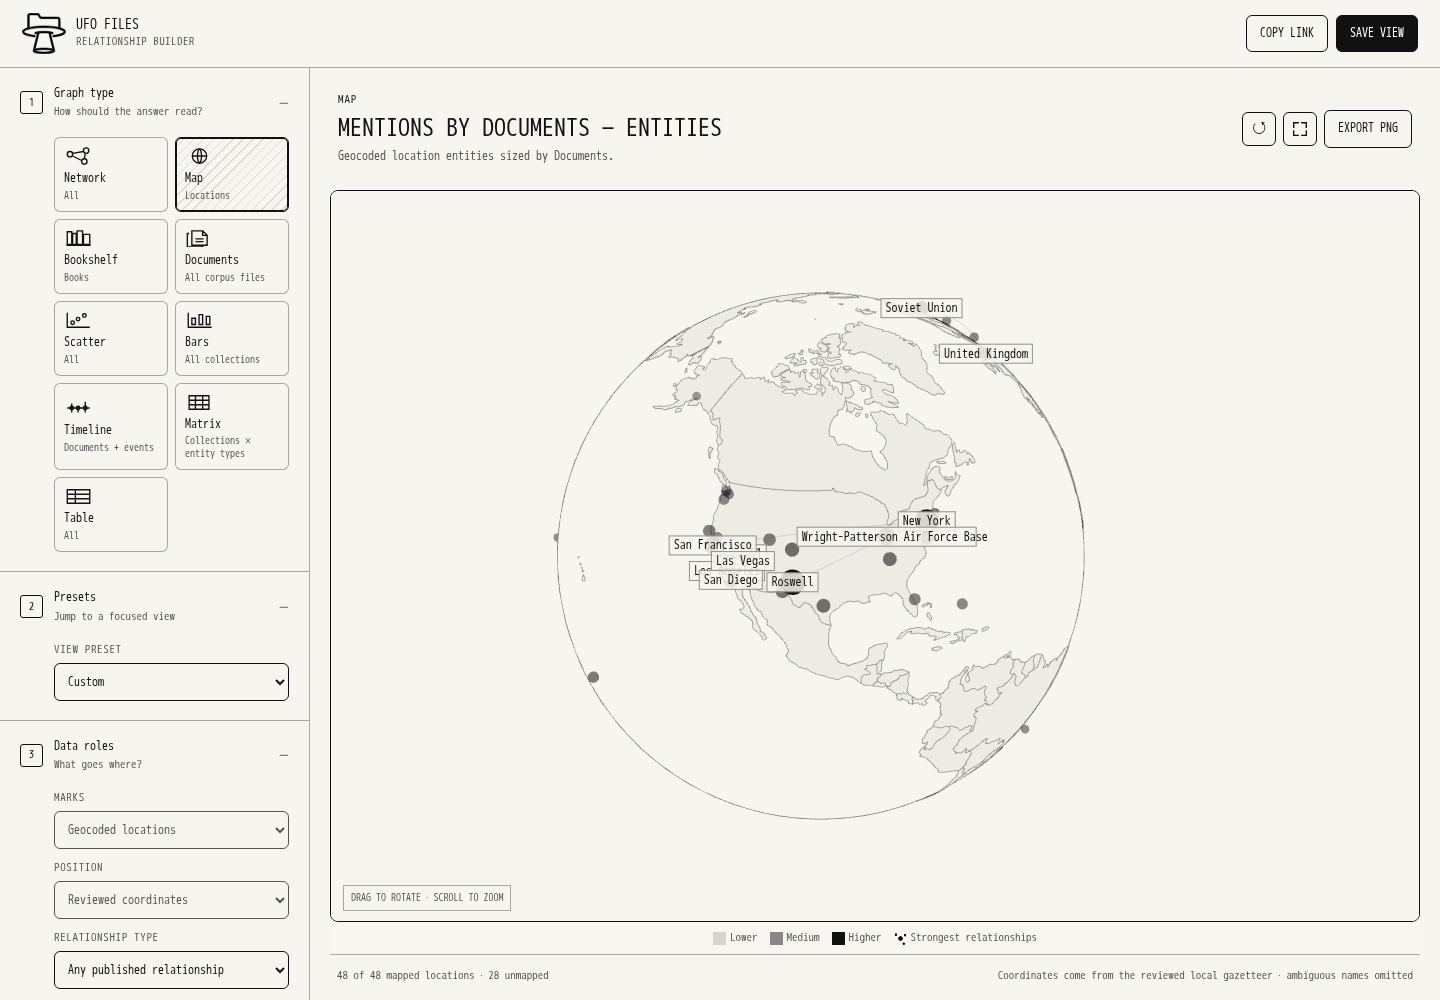
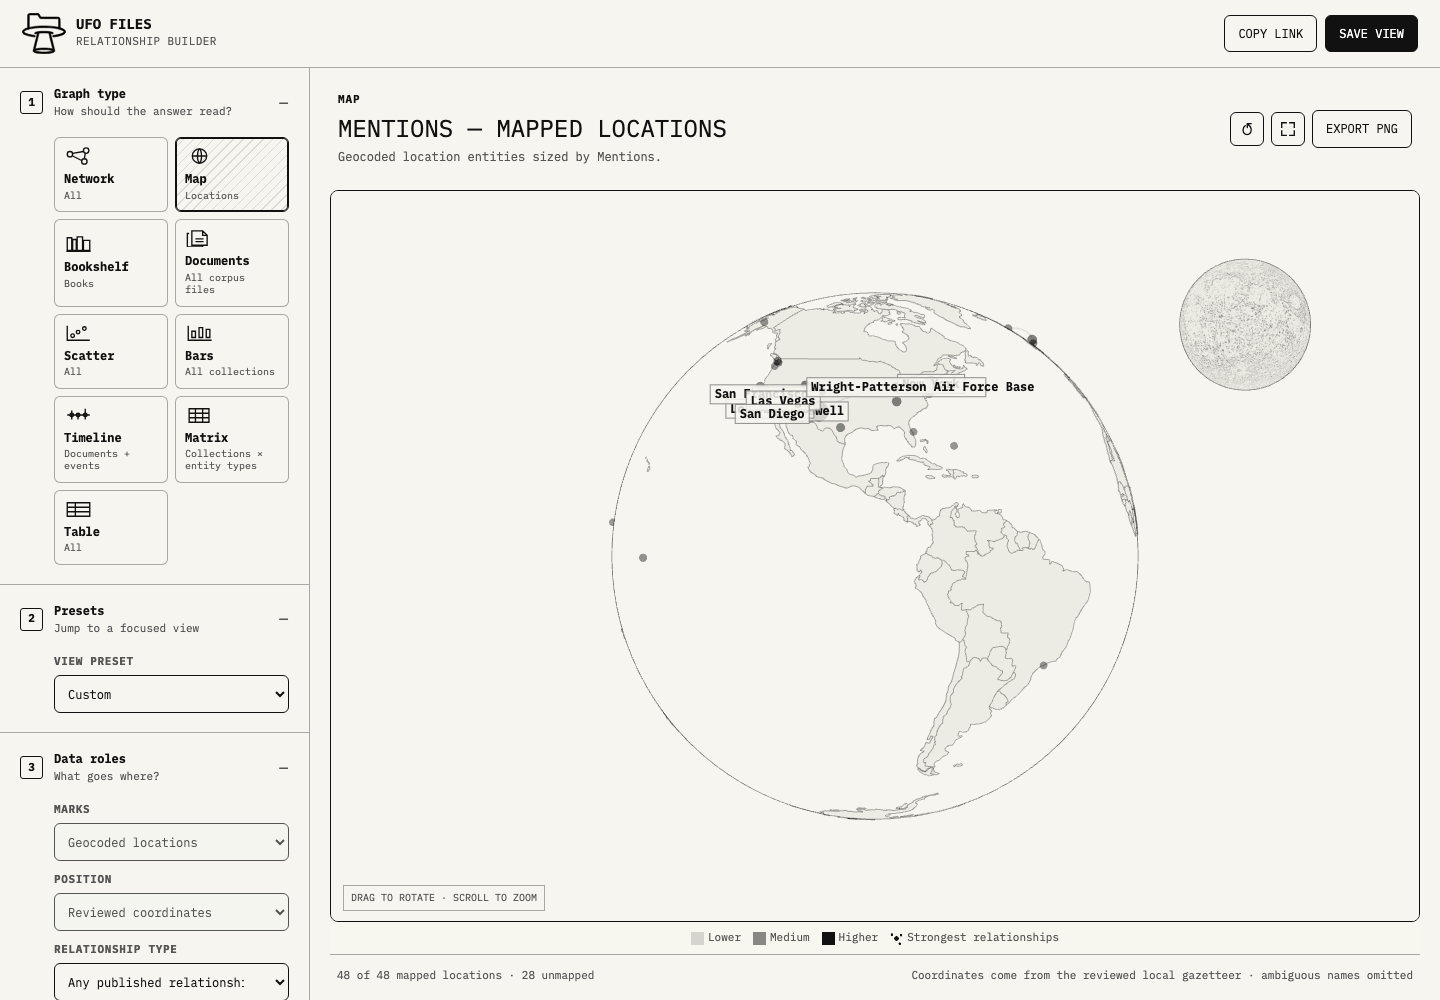
Use an outside telephoto Moon orbit view

diff --git a/map-globe.js b/map-globe.js
@@ -7,7 +7,7 @@ const labelLayer = document.querySelector("#globeLabels");
 const status = document.querySelector("#mapStatus");
 const DEFAULT_GLOBE_COVERAGE = .72;
 const DEFAULT_CAMERA_TARGET_X = 0;
-const DEFAULT_GLOBE_ROTATION = { x: .66, y: .11 };
+const DEFAULT_GLOBE_ROTATION = { x: .01375, y: 0 };
 const AUTO_ROTATION_SPEED = .000025;
 const EARTH_EQUATORIAL_RADIUS_KM = 6371;
 const MOON_EQUATORIAL_RADIUS_KM = 1737.4;
@@ -17,14 +17,24 @@ const MOON_ORBIT_INCLINATION = 5.145;
 const MOON_RADIUS = MOON_EQUATORIAL_RADIUS_KM / EARTH_EQUATORIAL_RADIUS_KM;
 const MOON_ORBIT_RADIUS = MOON_MEAN_ORBIT_RADIUS_KM / EARTH_EQUATORIAL_RADIUS_KM;
 // Physical time is compressed so a complete orbit is observable in the interactive view.
-const MOON_DISPLAY_ORBIT_PERIOD_MS = 30_000;
+const MOON_DISPLAY_ORBIT_PERIOD_MS = 300_000;
 const MOON_ORBIT_SPEED = Math.PI * 2 / MOON_DISPLAY_ORBIT_PERIOD_MS;
-const MAX_CAMERA_DISTANCE = 180;
+const DEFAULT_MOON_ORBIT_ANGLE = 1.545;
+const DEFAULT_CAMERA_DISTANCE = 600;
+const MIN_CAMERA_DISTANCE = 70;
+const MAX_CAMERA_DISTANCE = 1_200;
 
 function cameraDistanceForCoverage(verticalFov, coverage) {
   const halfFov = THREE.MathUtils.degToRad(verticalFov / 2);
   return 1 / Math.sin(Math.atan(Math.tan(halfFov) * coverage));
 }
+
+function verticalFovForCoverageAtDistance(distance, coverage) {
+  const apparentHalfAngle = Math.asin(1 / distance);
+  return THREE.MathUtils.radToDeg(2 * Math.atan(Math.tan(apparentHalfAngle) / coverage));
+}
+
+const DEFAULT_CAMERA_FOV = verticalFovForCoverageAtDistance(DEFAULT_CAMERA_DISTANCE, DEFAULT_GLOBE_COVERAGE);
 
 class GlobeMap {
   constructor() {
@@ -32,7 +42,7 @@ class GlobeMap {
     this.renderer.setPixelRatio(Math.min(2, window.devicePixelRatio || 1));
     this.renderer.outputColorSpace = THREE.SRGBColorSpace;
     this.scene = new THREE.Scene();
-    this.camera = new THREE.PerspectiveCamera(38, 1, .1, 500);
+    this.camera = new THREE.PerspectiveCamera(DEFAULT_CAMERA_FOV, 1, 10, 1_500);
     this.camera.position.set(DEFAULT_CAMERA_TARGET_X, 0, cameraDistanceForCoverage(this.camera.fov, DEFAULT_GLOBE_COVERAGE));
     this.camera.lookAt(DEFAULT_CAMERA_TARGET_X, 0, 0);
     this.earthMoonSystem = new THREE.Group();
@@ -63,6 +73,7 @@ class GlobeMap {
     orbitPlane.rotation.z = THREE.MathUtils.degToRad(MOON_ORBIT_INCLINATION);
     this.earthMoonSystem.add(orbitPlane);
     this.moonOrbit = new THREE.Group();
+    this.moonOrbit.rotation.y = DEFAULT_MOON_ORBIT_ANGLE;
     orbitPlane.add(this.moonOrbit);
 
     this.moonMaterial = new THREE.MeshBasicMaterial({ color: 0xd0cec7 });
@@ -214,7 +225,7 @@ class GlobeMap {
     canvas.addEventListener("wheel", event => {
       event.preventDefault();
       const zoomFactor = Math.exp(event.deltaY * .0015);
-      this.camera.position.z = THREE.MathUtils.clamp(this.camera.position.z * zoomFactor, 1.75, MAX_CAMERA_DISTANCE);
+      this.camera.position.z = THREE.MathUtils.clamp(this.camera.position.z * zoomFactor, MIN_CAMERA_DISTANCE, MAX_CAMERA_DISTANCE);
       this.draw();
     }, { passive: false });
     canvas.addEventListener("dblclick", () => this.reset());
@@ -224,7 +235,7 @@ class GlobeMap {
       else if (event.key === "ArrowRight") this.earthMoonSystem.rotation.y += step;
       else if (event.key === "ArrowUp") this.earthMoonSystem.rotation.x = Math.max(-1.15, this.earthMoonSystem.rotation.x - step);
       else if (event.key === "ArrowDown") this.earthMoonSystem.rotation.x = Math.min(1.15, this.earthMoonSystem.rotation.x + step);
-      else if (["+", "="].includes(event.key)) this.camera.position.z = Math.max(1.75, this.camera.position.z - .2);
+      else if (["+", "="].includes(event.key)) this.camera.position.z = Math.max(MIN_CAMERA_DISTANCE, this.camera.position.z / 1.35);
       else if (event.key === "-") this.camera.position.z = Math.min(MAX_CAMERA_DISTANCE, this.camera.position.z * 1.35);
       else return;
       event.preventDefault();
@@ -388,7 +399,7 @@ class GlobeMap {
   reset() {
     this.earthMoonSystem.rotation.set(DEFAULT_GLOBE_ROTATION.x, DEFAULT_GLOBE_ROTATION.y, 0);
     this.globe.rotation.set(0, 0, 0);
-    this.moonOrbit.rotation.set(0, 0, 0);
+    this.moonOrbit.rotation.set(0, DEFAULT_MOON_ORBIT_ANGLE, 0);
     this.camera.position.set(DEFAULT_CAMERA_TARGET_X, 0, cameraDistanceForCoverage(this.camera.fov, DEFAULT_GLOBE_COVERAGE));
     this.camera.lookAt(DEFAULT_CAMERA_TARGET_X, 0, 0);
     this.draw();

diff --git a/tests/test_app.js b/tests/test_app.js
@@ -445,15 +445,18 @@ test("Map is a first-class Three.js graph type with reviewed location data", () 
   assert.match(globe, /if \(!segments\.has\(edgeKey\)\)/);
   assert.match(globe, /DEFAULT_GLOBE_COVERAGE = \.72/);
   assert.match(globe, /DEFAULT_CAMERA_TARGET_X = 0/);
-  assert.match(globe, /DEFAULT_GLOBE_ROTATION = \{ x: \.66, y: \.11 \}/);
+  assert.match(globe, /DEFAULT_GLOBE_ROTATION = \{ x: \.01375, y: 0 \}/);
   assert.match(globe, /AUTO_ROTATION_SPEED = \.000025/);
   assert.match(globe, /MOON_EQUATORIAL_RADIUS_KM = 1737\.4/);
   assert.match(globe, /MOON_MEAN_ORBIT_RADIUS_KM = 384_400/);
   assert.match(globe, /MOON_RADIUS = MOON_EQUATORIAL_RADIUS_KM \/ EARTH_EQUATORIAL_RADIUS_KM/);
   assert.match(globe, /MOON_ORBIT_RADIUS = MOON_MEAN_ORBIT_RADIUS_KM \/ EARTH_EQUATORIAL_RADIUS_KM/);
   assert.match(globe, /MOON_ORBIT_DAYS = 27\.322/);
-  assert.match(globe, /MOON_DISPLAY_ORBIT_PERIOD_MS = 30_000/);
+  assert.match(globe, /MOON_DISPLAY_ORBIT_PERIOD_MS = 300_000/);
   assert.match(globe, /MOON_ORBIT_SPEED = Math\.PI \* 2 \/ MOON_DISPLAY_ORBIT_PERIOD_MS/);
+  assert.match(globe, /DEFAULT_MOON_ORBIT_ANGLE = 1\.545/);
+  assert.match(globe, /this\.moonOrbit\.rotation\.y = DEFAULT_MOON_ORBIT_ANGLE/);
+  assert.match(globe, /this\.moonOrbit\.rotation\.set\(0, DEFAULT_MOON_ORBIT_ANGLE, 0\)/);
   assert.match(globe, /moon-paper\.png/);
   assert.match(globe, /loadMoonTexture\(\) \{[\s\S]*new THREE\.TextureLoader\(\)\.load\([\s\S]*moon-paper\.png/);
   assert.match(globe, /setVisible\(visible\) \{[\s\S]*if \(visible\) \{[\s\S]*this\.loadMoonTexture\(\)/);
@@ -462,8 +465,11 @@ test("Map is a first-class Three.js graph type with reviewed location data", () 
   assert.match(globe, /moon\.rotation\.y = Math\.PI/);
   assert.match(globe, /this\.earthMoonSystem\.add\(orbitPlane\)/);
   assert.match(globe, /this\.earthMoonSystem\.rotation\.y \+= dx \* \.006/);
-  assert.match(globe, /MAX_CAMERA_DISTANCE = 180/);
-  assert.match(globe, /new THREE\.PerspectiveCamera\(38, 1, \.1, 500\)/);
+  assert.match(globe, /DEFAULT_CAMERA_DISTANCE = 600/);
+  assert.match(globe, /MIN_CAMERA_DISTANCE = 70/);
+  assert.match(globe, /MAX_CAMERA_DISTANCE = 1_200/);
+  assert.match(globe, /verticalFovForCoverageAtDistance/);
+  assert.match(globe, /new THREE\.PerspectiveCamera\(DEFAULT_CAMERA_FOV, 1, 10, 1_500\)/);
   assert.match(globe, /this\.camera\.position\.z \* zoomFactor/);
   assert.match(globe, /this\.moonOrbit\.rotation\.y \+= elapsed \* MOON_ORBIT_SPEED/);
   assert.match(html, /Drag or use arrow keys to rotate the Earth and Moon together/);

diff --git a/README.md b/README.md
@@ -80,7 +80,7 @@ Entities are a global data role: they can be network nodes, a Scatter axis, the 
 
 The Book type is an area-proportional abstract bookshelf. Each block is a title explicitly identified in transcript text, with area and shade controlled by the selected prominence metric. Titles are extracted only from book, novel, or memoir cues; each mark opens its source evidence in the inspector.
 
-The Map type renders a rotatable Three.js globe with SVG country boundaries and location-entity nodes. A Moon sized proportionally to Earth follows a time-compressed orbit at its mean physical distance while keeping its near side tidally locked toward Earth. Its flat paper-and-ink treatment matches the map, and dragging rotates the complete Earth–Moon system. The default camera keeps Earth at map scale, so the distant Moon is normally off-canvas until the view is zoomed out. Node position comes only from the reviewed `data/location_coordinates.json` gazetteer; ambiguous and unmapped names are reported but never guessed onto the globe. Map nodes retain the same collection, confidence, prominence-inflation, size, label, and evidence-inspection controls as other entity views.
+The Map type renders a rotatable Three.js globe with SVG country boundaries and location-entity nodes. A Moon sized proportionally to Earth follows a five-minute display orbit at its mean physical distance while keeping its near side tidally locked toward Earth. Its flat paper-and-ink treatment matches the map, and dragging rotates the complete Earth–Moon system. A distant telephoto camera outside the lunar orbit preserves Earth’s original centered map scale and keeps the Moon near its familiar apparent size: the Moon starts upper-right on the far side, transits behind Earth, and crosses in front of Earth on the near half-orbit. Node position comes only from the reviewed `data/location_coordinates.json` gazetteer; ambiguous and unmapped names are reported but never guessed onto the globe. Map nodes retain the same collection, confidence, prominence-inflation, size, label, and evidence-inspection controls as other entity views.
 
 ## Run locally
 
